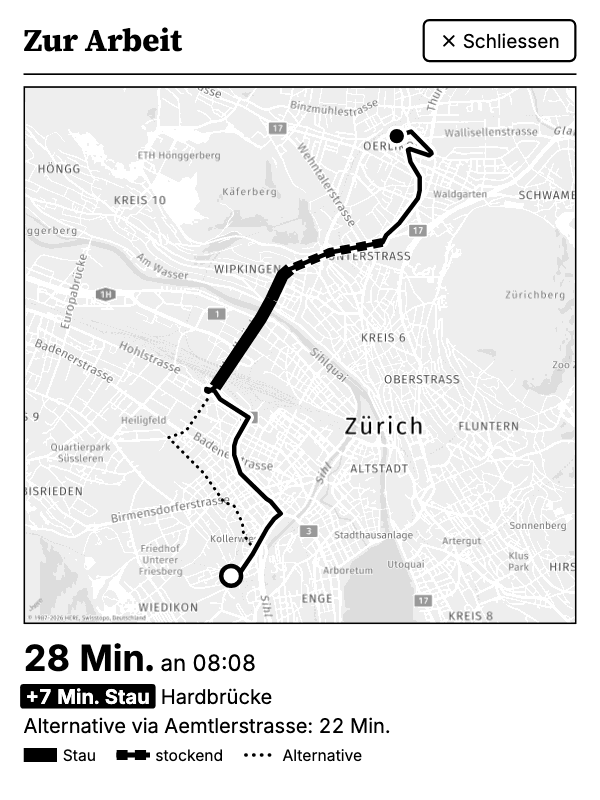
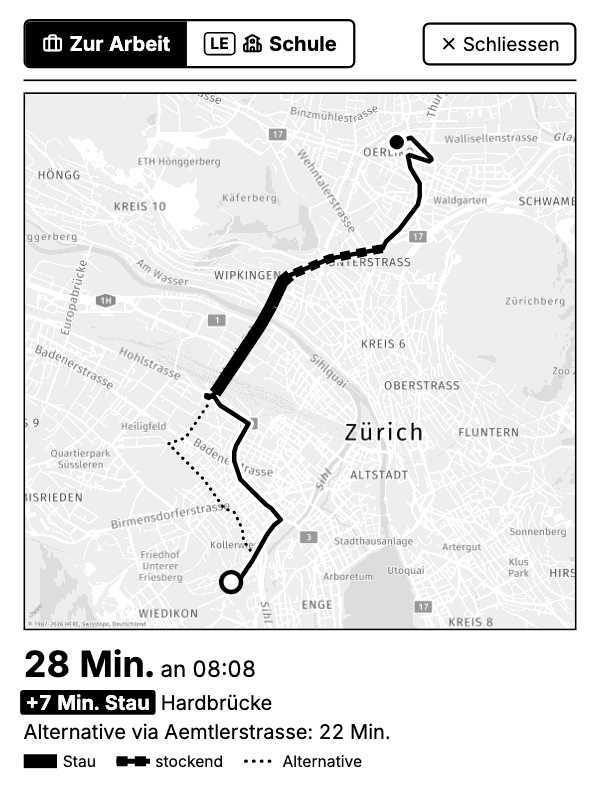
Screenshot «Arbeitsweg» mit den Reitern Arbeit und Schule

diff --git a/README.md b/README.md
@@ -39,7 +39,7 @@ Ein alter Kindle als Info-Bildschirm für den Eingang: Wetter, Termine, Abfahrte
   <img src="docs/screenshots/nacht.png" width="160" alt="Nachtbildschirm">
   <img src="docs/screenshots/haltestelle.png" width="160" alt="Haltestelle">
   <img src="docs/screenshots/heute-roller.png" width="160" alt="Heute mit Roller zu Arbeit und Schule, Uetliberg sonnig über dem Nebel, Kindle am Strom">
-  <img src="docs/screenshots/arbeitsweg.png" width="160" alt="Arbeitsweg mit Stau">
+  <img src="docs/screenshots/arbeitsweg.png" width="160" alt="Arbeitsweg mit Stau, Reiter Arbeit und Schule">
   <img src="docs/screenshots/einkauf.png" width="160" alt="Einkauf">
   <img src="docs/screenshots/hinzufuegen.png" width="160" alt="Hinzufügen">
 </p>
